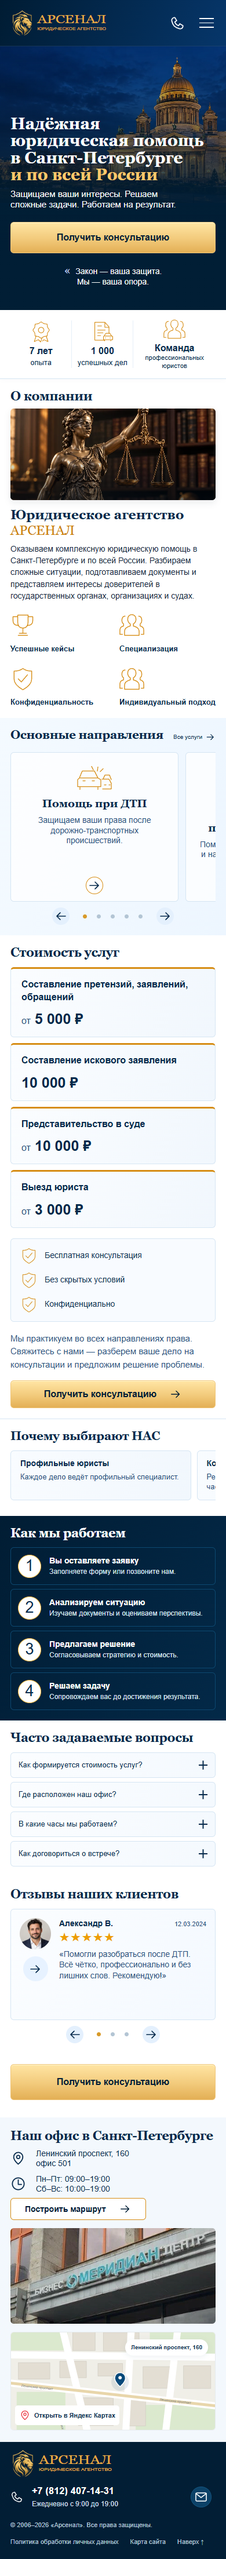
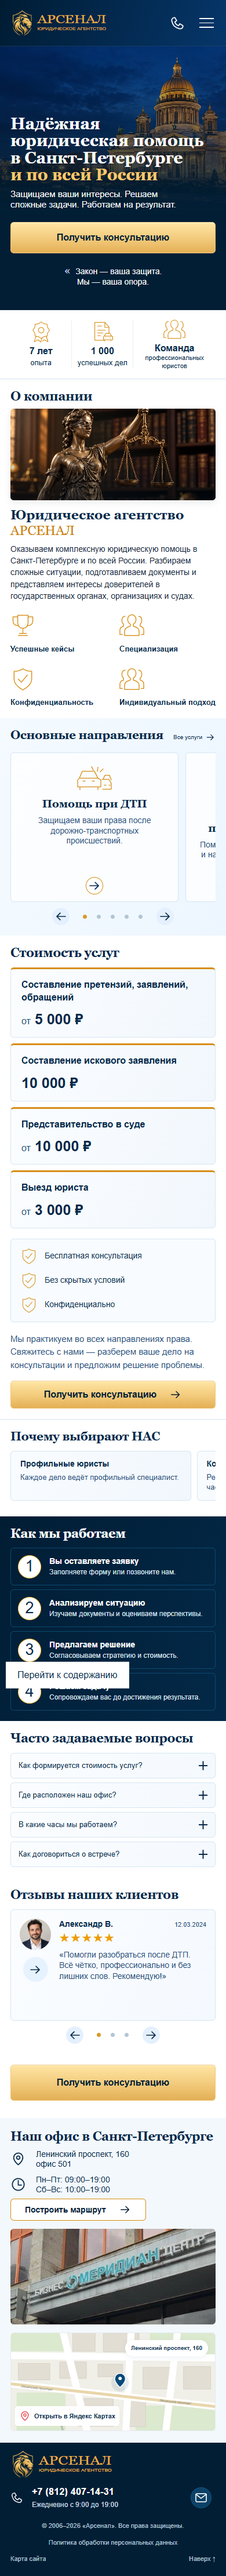
Rename and center the footer privacy policy link

Changed region(s): [[0.0, 0.0, 1.0, 1.0], [0.8923, 0.3125, 0.9538, 0.3438], [0.9231, 0.25, 0.9538, 0.2812]]

diff --git a/index.html b/index.html
@@ -200,7 +200,7 @@
     </div></section>
   </main>
 
-  <footer class="footer"><div class="container"><div class="footer__main"><a class="logo footer__logo" href="#top" aria-label="Арсенал — на главную"><img class="logo__image" src="assets/images/logo.svg" width="205" height="56" alt="АРСЕНАЛ"></a><p class="footer__tagline">Надёжная юридическая помощь<br>в Санкт-Петербурге и по всей России</p><a class="contact-phone footer__phone" href="tel:+78124071431"><svg class="icon contact-phone__icon" aria-hidden="true"><use href="#phone"></use></svg><span class="contact-phone__body"><strong class="contact-phone__number">+7 (812) 407-14-31</strong><span class="contact-phone__hours">Ежедневно с 9:00 до 19:00</span></span></a><button class="round-button footer__contact" type="button" data-modal="Связаться с агентством" aria-label="Связаться с агентством"><svg class="icon" aria-hidden="true"><use href="#mail"></use></svg></button></div><div class="footer__bottom"><p class="footer__copyright">© 2006–2026 «Арсенал». Все права защищены.</p><button class="footer__link" type="button" data-privacy>Политика обработки личных данных</button><a class="footer__link" href="#services">Карта сайта</a><a class="footer__top" href="#top">Наверх ↑</a></div></div></footer>
+  <footer class="footer"><div class="container"><div class="footer__main"><a class="logo footer__logo" href="#top" aria-label="Арсенал — на главную"><img class="logo__image" src="assets/images/logo.svg" width="205" height="56" alt="АРСЕНАЛ"></a><p class="footer__tagline">Надёжная юридическая помощь<br>в Санкт-Петербурге и по всей России</p><a class="contact-phone footer__phone" href="tel:+78124071431"><svg class="icon contact-phone__icon" aria-hidden="true"><use href="#phone"></use></svg><span class="contact-phone__body"><strong class="contact-phone__number">+7 (812) 407-14-31</strong><span class="contact-phone__hours">Ежедневно с 9:00 до 19:00</span></span></a><button class="round-button footer__contact" type="button" data-modal="Связаться с агентством" aria-label="Связаться с агентством"><svg class="icon" aria-hidden="true"><use href="#mail"></use></svg></button></div><div class="footer__bottom"><p class="footer__copyright">© 2006–2026 «Арсенал». Все права защищены.</p><button class="footer__link footer__link--privacy" type="button" data-privacy>Политика обработки персональных данных</button><a class="footer__link" href="#services">Карта сайта</a><a class="footer__top" href="#top">Наверх ↑</a></div></div></footer>
 
   <dialog class="modal" id="consultation-modal" aria-labelledby="modal-title" aria-describedby="modal-description"><div class="modal__inner"><button class="modal__close" type="button" data-close aria-label="Закрыть окно">×</button><svg class="icon modal__icon" aria-hidden="true"><use href="#shield"></use></svg><p class="modal__eyebrow">Юридическое агентство Арсенал</p><h2 class="modal__title" id="modal-title">Получить консультацию</h2><p class="modal__description" id="modal-description">Расскажите о вашей ситуации. Мы свяжемся с вами и подскажем, с чего начать.</p>
     <form class="lead-form lead-form--modal" data-lead-form data-endpoint="" method="post"><input type="hidden" name="subject" value="Консультация юриста"><label class="lead-form__label" for="lead-name">Ваше имя</label><input class="lead-form__input" id="lead-name" name="name" autocomplete="name" placeholder="Как к вам обращаться" maxlength="80"><label class="lead-form__label" for="lead-phone">Номер телефона <span class="lead-form__required">*</span></label><div class="phone-field"><span class="phone-field__prefix" aria-hidden="true"><span class="phone-field__flag"></span>+7</span><input class="phone-field__input" id="lead-phone" name="phone" type="tel" autocomplete="tel-national" inputmode="numeric" placeholder="(999) 123-45-67" required aria-describedby="lead-phone-error modal-status"></div><p class="lead-form__error" id="lead-phone-error" aria-live="polite"></p><label class="lead-form__label" for="lead-message">Кратко о вашем вопросе</label><textarea class="lead-form__input lead-form__input--textarea" id="lead-message" name="message" placeholder="Опишите ситуацию, если хотите" rows="3" maxlength="2000"></textarea><div class="consent"><input class="consent__input" id="lead-consent" type="checkbox" name="consent" value="1" required><span class="consent__text"><label for="lead-consent">Я согласен на</label> <button class="consent__link" type="button" data-privacy>обработку персональных данных</button></span></div><button class="button lead-form__submit" type="submit">Отправить заявку<svg class="icon button__icon" aria-hidden="true"><use href="#arrow"></use></svg></button><p class="lead-form__status" id="modal-status" role="status" aria-live="polite"></p><p class="lead-form__demo">Демонстрационная форма. Данные пока не отправляются.</p></form>

diff --git a/assets/css/style.css b/assets/css/style.css
@@ -247,11 +247,11 @@ button:disabled { cursor: wait; opacity: .65; }
 .footer__phone { margin-left: auto; }
 .footer__phone .contact-phone__number { font-size: 16px; }
 .footer__contact { margin-left: auto; color: #fff; border-color: #13537d; background: #0b4167; }
-.footer__bottom { display: flex; align-items: center; gap: 32px; padding-block: 5px 10px; color: #b3c5d7; font-size: 12px; }
-.footer__copyright { margin-right: auto; }
+.footer__bottom { display: grid; grid-template-columns: auto minmax(0, 1fr) auto auto; align-items: center; gap: 32px; padding-block: 5px 10px; color: #b3c5d7; font-size: 12px; }
 .footer__link { padding: 0; background: transparent; color: inherit; font-size: inherit; }
+.footer__link--privacy { justify-self: center; text-align: center; }
 .footer__link:hover { color: #ffcd70; }
-.footer__top { margin-left: auto; }
+.footer__top { justify-self: end; }
 
 /* Диалог, нативное удержание фокуса и Escape */
 .modal { width: min(520px, calc(100% - 32px)); max-height: calc(100dvh - 40px); margin: auto; padding: 0; border: 1px solid #e0d0ae; border-radius: 12px; color: var(--navy); background: #fff; box-shadow: 0 24px 100px #00142355; }
@@ -380,7 +380,7 @@ button:disabled { cursor: wait; opacity: .65; }
   .contacts__map { grid-column: 1 / -1; height: 190px; }
   .contacts__photo { max-height: 190px; }
   .footer__tagline { display: none; }
-  .footer__bottom { flex-wrap: wrap; gap: 10px 25px; }
+  .footer__bottom { gap: 10px 25px; }
 }
 @media (max-width: 767px) {
   .pricing__benefits { gap: 14px; padding: 14px 16px; }
@@ -500,9 +500,9 @@ button:disabled { cursor: wait; opacity: .65; }
   .footer__phone { margin: 0; }
   .footer__phone .contact-phone__icon { width: 22px; height: 22px; }
   .footer__contact { margin-left: auto; }
-  .footer__bottom { margin-top: 15px; gap: 13px 20px; font-size: 11px; }
-  .footer__copyright { flex-basis: 100%; }
-  .footer__top { margin-left: 0; }
+  .footer__bottom { grid-template-columns: 1fr auto; margin-top: 15px; gap: 13px 20px; font-size: 11px; }
+  .footer__copyright { grid-column: 1 / -1; text-align: center; }
+  .footer__link--privacy { grid-column: 1 / -1; }
   .modal__inner { padding: 27px 24px; }
   .modal__title { font-size: 27px; }
   .modal { max-height: calc(100dvh - 24px); }
